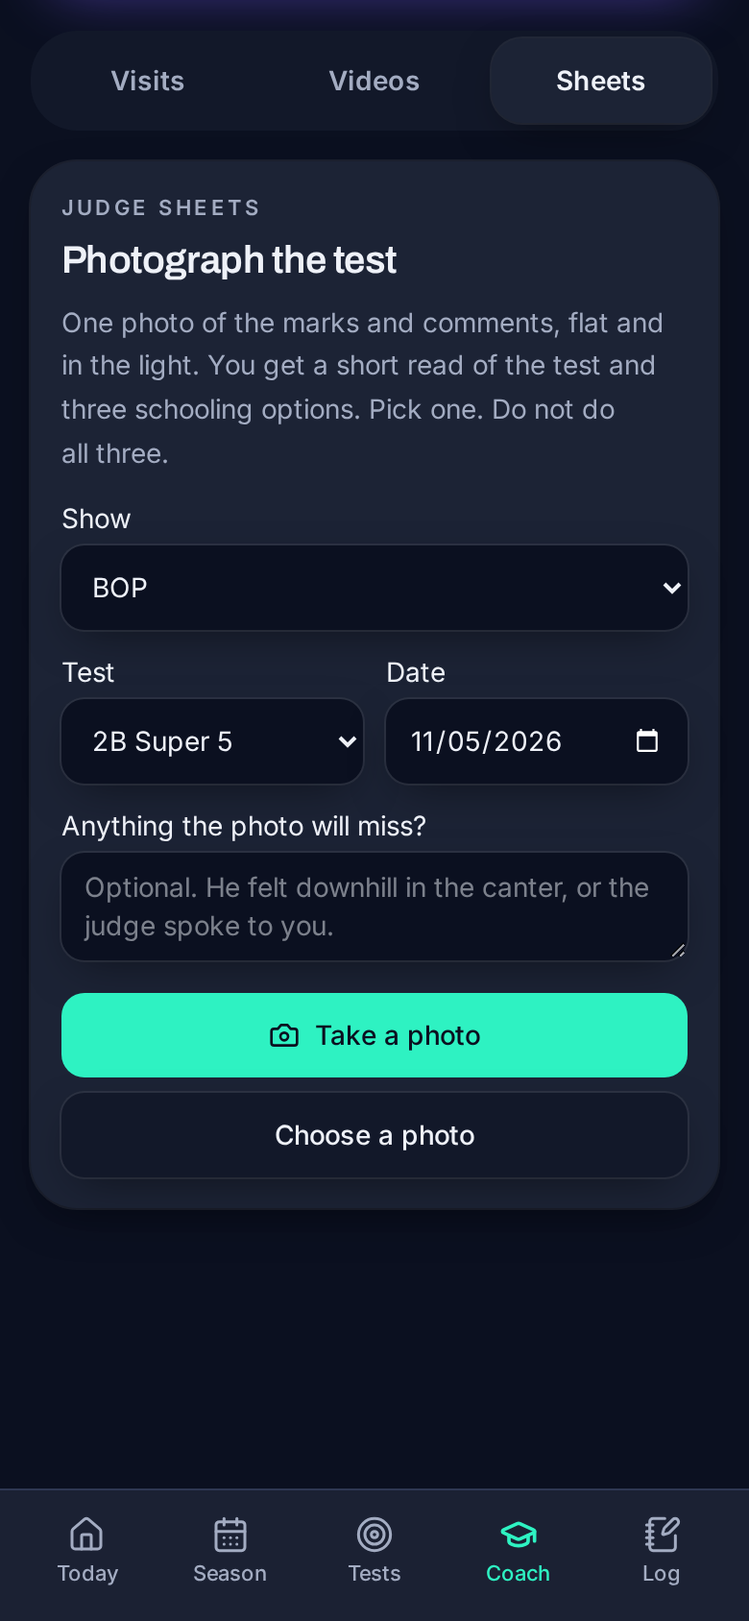
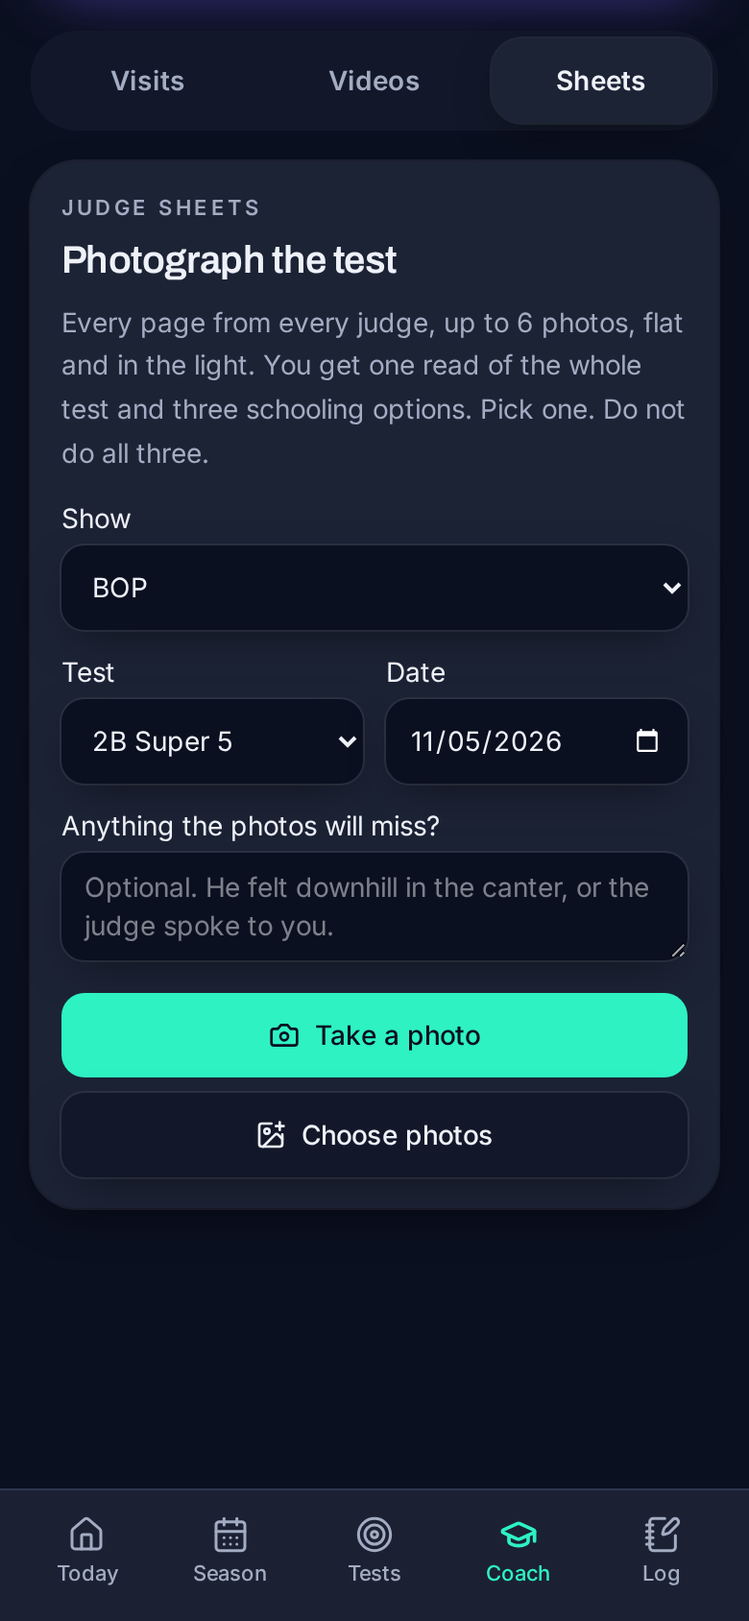
Rebrand app as XSalute by Virtual Dressage NZ

diff --git a/index.html b/index.html
@@ -1,17 +1,19 @@
 <!doctype html><html lang="en-NZ"><head><meta charset="utf-8"><meta name="viewport" content="width=device-width,initial-scale=1">
-<title>Virtual Dressage NZ — Train, plan &amp; track your dressage journey</title>
-<meta name="description" content="Virtual Dressage NZ: a New Zealand-built dressage training app for riders and coaches. Plan your season, learn your tests, log results and get coach feedback. Free during beta.">
+<title>XSalute by Virtual Dressage NZ — Train, plan &amp; track your dressage journey</title>
+<meta name="description" content="XSalute by Virtual Dressage NZ: a New Zealand-built dressage training app for riders and coaches. Plan your season, learn your tests, log results and get coach feedback. Free during beta.">
 <link rel="preconnect" href="https://fonts.googleapis.com"><link href="https://fonts.googleapis.com/css2?family=Archivo:wght@600;800&family=Inter:wght@400;600;700&display=swap" rel="stylesheet">
-<link rel="icon" href="favicon.ico" sizes="any"><link rel="icon" type="image/svg+xml" href="images/brand/logo-icon.svg"><link rel="apple-touch-icon" href="images/brand/logo-icon-192.png"><meta name="theme-color" content="#0B1020"><link rel="stylesheet" href="css/style.css"></head><body>
-<nav><div class="wrap"><a class="logo" href="#"><img src="images/brand/logo-icon.svg" alt=""><span class="lt">Virtual Dressage <span>NZ</span></span></a><ul>
-<li><a href="#cohort">Beta</a></li><li><a href="#features">Features</a></li><li><a href="#judge-sheets">Judge sheets</a></li><li><a href="#how">How it works</a></li><li><a href="#mindset">Mindset</a></li><li><a href="#nutrition">Nutrition</a></li><li><a href="#surfaces">Surfaces</a></li><li><a href="#pricing">Pricing</a></li><li><a href="#coaches">Coaches &amp; clubs</a></li><li><a href="#origin">Our story</a></li><li><a href="#faq">FAQ</a></li><li><a class="navcta" href="mailto:virtualdressagenz@gmail.com?subject=Join%20the%20Virtual%20Dressage%20NZ%20beta">Join the beta</a></li></ul></div></nav>
+<link rel="icon" href="favicon.ico" sizes="any"><link rel="icon" type="image/svg+xml" href="images/brand/logo-icon.svg"><link rel="apple-touch-icon" href="images/brand/logo-icon-192.png"><meta name="theme-color" content="#0B1020"><meta name="application-name" content="XSalute"><meta property="og:type" content="website"><meta property="og:site_name" content="Virtual Dressage NZ"><meta property="og:title" content="XSalute by Virtual Dressage NZ — the dressage training app"><meta property="og:description" content="Plan · Train · Compete · Reflect. Season plans, test learning, coach sessions, results and judge-sheet reading for riders and coaches. Made in New Zealand. Free during beta."><meta property="og:url" content="https://jurastablesnz-lab.github.io/virtual-dressage-nz/"><meta property="og:image" content="https://jurastablesnz-lab.github.io/virtual-dressage-nz/preview.png"><meta name="twitter:card" content="summary_large_image"><link rel="stylesheet" href="css/style.css"></head><body>
+<nav><div class="wrap"><a class="logo" href="#" aria-label="Virtual Dressage NZ — home of XSalute"><img src="images/brand/logo-icon.svg" alt=""><span class="lt">Virtual Dressage <span>NZ</span></span><span class="prod" title="XSalute — our dressage training app"><b>X</b>Salute</span></a><ul>
+<li><a href="#cohort">Beta</a></li><li><a href="#features">Features</a></li><li><a href="#judge-sheets">Judge sheets</a></li><li><a href="#how">How it works</a></li><li><a href="#mindset">Mindset</a></li><li><a href="#nutrition">Nutrition</a></li><li><a href="#surfaces">Surfaces</a></li><li><a href="#pricing">Pricing</a></li><li><a href="#coaches">Coaches &amp; clubs</a></li><li><a href="#origin">Our story</a></li><li><a href="#faq">FAQ</a></li><li><a class="navcta" href="mailto:virtualdressagenz@gmail.com?subject=Join%20the%20XSalute%20beta">Join the beta</a></li></ul></div></nav>
 <header class="hero"><div class="wrap"><div>
-<img class="hero-mark" src="images/brand/logo-icon.svg" alt="Virtual Dressage NZ horse and rider mark">
+<img class="hero-mark" src="images/brand/logo-icon.svg" alt="XSalute horse and rider mark">
+<img class="hero-word" src="images/brand/xsalute-wordmark.svg" alt="XSalute">
 <div class="tagline"><span>PLAN</span><span>TRAIN</span><span>COMPETE</span><span>REFLECT</span></div>
-<div class="eyebrow">The dressage training app · Made in New Zealand</div>
+<div class="eyebrow">The dressage training app by Virtual Dressage NZ · Made in New Zealand</div>
 <h1>Train, plan &amp; track your <em>dressage journey</em>.</h1>
-<p>Your season plan, test learning, coach sessions, results and judge feedback in one calm app, from your first Novice test to Nationals and beyond.</p>
-<div class="ctas"><a class="btn" href="mailto:virtualdressagenz@gmail.com?subject=Join%20the%20Virtual%20Dressage%20NZ%20beta">Join the beta</a><a class="btn ghost" href="#features">See the app</a></div>
+<p>XSalute puts your season plan, test learning, coach sessions, results and judge feedback in one calm app, from your first Novice test to Nationals and beyond.</p>
+<p class="small">Named for the halt and salute at X that starts and finishes every dressage test.</p>
+<div class="ctas"><a class="btn" href="mailto:virtualdressagenz@gmail.com?subject=Join%20the%20XSalute%20beta">Join the beta</a><a class="btn ghost" href="#features">See XSalute</a></div>
 <p class="small">Free during beta · Runs in your phone or computer browser · Freestyle music player built in</p></div>
 <div class="phone"><img src="images/01-today.png" alt="Today dashboard screen"></div></div></header>
 
@@ -19,28 +21,28 @@
 <div class="eyebrow">Founding beta cohort</div><h2>Now forming our founding beta cohort</h2>
 <p style="font-size:1.15rem;opacity:.9">Riders from Novice to Grand Prix.</p>
 <div class="chips"><span>Novice</span><span>Elementary</span><span>Medium</span><span>Advanced</span><span>FEI / Grand Prix</span></div>
-<p class="muted" style="max-width:40em;margin:18px auto">The app adapts to each rider’s level and tests, from your season plan to the test library. FEI tests are coming.</p>
+<p class="muted" style="max-width:40em;margin:18px auto">XSalute adapts to each rider’s level and tests, from your season plan to the test library. FEI tests are coming.</p>
 <p class="gold">Limited founding places</p>
 <a class="btn" href="mailto:virtualdressagenz@gmail.com?subject=Founding%20beta%20application&amp;body=Name%3A%0AHorse%20(name%2C%20age%2C%20breed)%3A%0ALevel%3A%0ATests%20ridden%3A%0ATarget%20shows%3A%0ACoach%3A%0A">Apply for the founding beta</a>
 <p class="small">Tell us about your horse, level, tests ridden, target shows and coach.</p>
 </div></section>
 <section id="how"><div class="wrap"><div class="eyebrow">How it works</div><h2>Plan. Train. Compete. Reflect.</h2>
 <div class="grid3" style="margin-top:32px">
-<div class="card"><div class="step">01</div><h3>Plan</h3><p class="muted">Add your shows and goals. Virtual Dressage NZ builds your season in phases (Foundation, Consolidate, Strength, Championship) and a weekly plan.</p></div>
+<div class="card"><div class="step">01</div><h3>Plan</h3><p class="muted">Add your shows and goals. XSalute builds your season in phases (Foundation, Consolidate, Strength, Championship) and a weekly plan.</p></div>
 <div class="card"><div class="step">02</div><h3>Train</h3><p class="muted">Open Today for your session. Learn each test movement by movement on the arena diagram, with what the judge wants and schooling tips.</p></div>
 <div class="card"><div class="step">03</div><h3>Compete &amp; reflect</h3><p class="muted">Log results, photograph judge sheets, upload test videos for your coach and watch your scores and league points add up.</p></div>
 </div></div></section>
 <div class="banner" style="background-image:url(images/gp-vonbredow.jpg)"><div class="wrap"><p class="bline">Harmony is trained, one stride at a time.</p><p class="bsub">Every Grand Prix test began with a single schooling session.</p></div></div>
 
-<section id="features" class="alt"><div class="wrap"><div class="eyebrow">Features</div><h2>Everything for your season, in one place.</h2>
-<div class="feature"><div class="phone"><img src="images/01-today.png" alt="Today screen"></div><div><h3>Today — your daily dashboard</h3><p class="muted">Open the app and know exactly what to do.</p><ul><li>Key stats: best score, next show, entry deadlines</li><li>Freestyle music player, one tap away</li><li>Weekly plan checklist and today’s session</li><li>Super 5 league points at a glance</li></ul></div></div>
-<div class="feature"><div class="phone"><img src="images/01-today.png" alt="Freestyle music player pinned at the top of the Today screen, playing Samson's Level 2 Freestyle"></div><div><span class="tag live">Live in beta</span><h3>Your freestyle music, one tap away</h3><p class="muted">Store your musical freestyle (MFS) music in the app and play it with one tap while you ride. No fumbling with phones, playlists or speakers at the arena gate.</p><ul><li>Upload your freestyle music once and it’s always with you</li><li>Player pinned at the top of every screen</li><li>Play, pause and restart in one tap, mid-schooling session</li><li>Already in use for Samson’s Level 2 Freestyle</li></ul></div></div>
+<section id="features" class="alt"><div class="wrap"><div class="eyebrow">Features</div><h2>Everything for your season, in one place: XSalute.</h2>
+<div class="feature"><div class="phone"><img src="images/01-today.png" alt="Today screen"></div><div><h3>Today — your daily dashboard</h3><p class="muted">Open XSalute and know exactly what to do.</p><ul><li>Key stats: best score, next show, entry deadlines</li><li>Freestyle music player, one tap away</li><li>Weekly plan checklist and today’s session</li><li>Super 5 league points at a glance</li></ul></div></div>
+<div class="feature"><div class="phone"><img src="images/01-today.png" alt="Freestyle music player pinned at the top of the Today screen, playing Samson's Level 2 Freestyle"></div><div><span class="tag live">Live in beta</span><h3>Your freestyle music, one tap away</h3><p class="muted">Store your musical freestyle (MFS) music in XSalute and play it with one tap while you ride. No fumbling with phones, playlists or speakers at the arena gate.</p><ul><li>Upload your freestyle music once and it’s always with you</li><li>Player pinned at the top of every screen</li><li>Play, pause and restart in one tap, mid-schooling session</li><li>Already in use for Samson’s Level 2 Freestyle</li></ul></div></div>
 <div class="feature"><div class="phone"><img src="images/02-season.png" alt="Season screen"></div><div><h3>Season — plan the campaign</h3><p class="muted">See the whole road to the championships.</p><ul><li>Super 5 show countdown to Nationals</li><li>Training phases: Foundation, Consolidate, Strength, Championship</li><li>Know which phase you’re in and what it’s for</li></ul></div></div>
 <div class="feature"><div class="phone"><img src="images/03-tests.png" alt="Tests screen"></div><div><h3>Tests — learn every movement</h3><p class="muted">An interactive arena diagram steps through each test.</p><ul><li>Movement-by-movement arena path</li><li>What the judge is looking for</li><li>Coefficients flagged so you know where marks count</li><li>Schooling tips for each movement</li></ul></div></div>
 <div class="feature"><div class="phone"><img src="images/04-coach.png" alt="Coach screen"></div><div><h3>Coach — make every lesson count</h3><p class="muted">Plan coach visits so nothing is wasted.</p><ul><li>Warm-up and exercises</li><li>What to film</li><li>Homework to carry into the week</li></ul></div></div>
 <div class="feature"><div class="phone"><img src="images/05-log.png" alt="Log screen"></div><div><h3>Log — results &amp; logistics</h3><p class="muted">Track your record and never forget the hoof oil.</p><ul><li>Results history and averages</li><li>League points tally</li><li>Show packing checklist</li></ul></div></div>
 <div class="feature"><div class="phone"><img src="images/06-coach-videos.png" alt="Coach videos screen"></div><div><h3>Video review</h3><p class="muted">Upload competition videos for your coach to review remotely — feedback between visits, wherever you both are.</p></div></div>
-<div class="feature" id="judge-sheets"><div class="phone"><img src="images/08-sheets-multi.png" alt="Judge sheet reading screen showing several sheet photos summarised by judge"></div><div><span class="tag live">New in beta</span><h3>AI judge sheet reading</h3><p class="muted">Photograph your judge sheets and let the app read them for you. Turn handwritten marks and remarks into a clear plan for your next ride.</p><ul><li>Photograph every page from up to three judges — up to 6 photos per test</li><li>AI reads the handwritten marks and remarks</li><li>A plain-English summary, grouped by judge</li><li>Common themes the judges agree on — and where they differ</li><li>Picks what to work on next</li><li>Copy a summary to send to your coach</li></ul></div></div>
+<div class="feature" id="judge-sheets"><div class="phone"><img src="images/08-sheets-multi.png" alt="Judge sheet reading screen showing several sheet photos summarised by judge"></div><div><span class="tag live">New in beta</span><h3>AI judge sheet reading</h3><p class="muted">Photograph your judge sheets and let XSalute read them for you. Turn handwritten marks and remarks into a clear plan for your next ride.</p><ul><li>Photograph every page from up to three judges — up to 6 photos per test</li><li>AI reads the handwritten marks and remarks</li><li>A plain-English summary, grouped by judge</li><li>Common themes the judges agree on — and where they differ</li><li>Picks what to work on next</li><li>Copy a summary to send to your coach</li></ul></div></div>
 </div></section>
 <section id="mindset" class="mindset"><div class="wrap grid2"><div class="mimg"><img src="images/gp-wandres.jpg" alt="Calm, focused Grand Prix dressage"></div><div>
 <span class="tag soon">Coming soon</span><div class="eyebrow">Mindset</div><h2>Ride with a calm, focused mind.</h2>
@@ -70,7 +72,7 @@
 <div class="grid3" style="margin-top:28px">
 <div class="card"><h3>Why it matters</h3><ul class="clean"><li><b>Welfare &amp; soundness:</b> footing affects the load on your horse’s legs.</li><li><b>Performance:</b> horses move with more confidence on secure, even ground.</li><li><b>Consistency:</b> riders deserve comparable footing in the warm-up and the arena.</li></ul></div>
 <div class="card"><h3>What to observe</h3><ul class="clean"><li>Depth</li><li>Firmness and give</li><li>Consistency across the arena</li><li>Grip or slip</li><li>Drainage and wet patches</li><li>Dust</li><li>Edges and corners</li><li>Warm-up arena vs competition arena</li></ul></div>
-<div class="card"><span class="tag soon">Coming soon</span><h3>In the app</h3><ul class="clean"><li>Log and rate each venue’s surface, with photos</li><li>Attach surface notes to your test score</li><li>See community reports per venue over time</li><li>Share feedback constructively with organisers</li></ul></div>
+<div class="card"><span class="tag soon">Coming soon</span><h3>In XSalute</h3><ul class="clean"><li>Log and rate each venue’s surface, with photos</li><li>Attach surface notes to your test score</li><li>See community reports per venue over time</li><li>Share feedback constructively with organisers</li></ul></div>
 </div>
 <p class="note">Want to learn more? Read the <a href="https://inside.fei.org/fei/about-fei/fei-library/equine-surfaces-white-paper">FEI Equine Surfaces White Paper</a> and the <a href="https://knowledgebase.fei.org/index.php?action=artikel&amp;artlang=en&amp;cat=11&amp;id=91">FEI guidance on footing</a>. General information only; links are to independent sources.</p>
 </div></section>
@@ -78,9 +80,9 @@
 
 <section id="samson"><div class="wrap grid2"><div>
 <div class="eyebrow">Case study #1 · First founding rider</div><h2>Samson &amp; Susan.</h2>
-<p>Virtual Dressage NZ is built by <strong>Susan Philp</strong>, a rider from the Palmerston North area, and is used to train her horse <strong>Samson</strong>, a 14-year-old black stationbred by Tiraumea Flint competing at Level 2 Novice.</p>
+<p>Virtual Dressage NZ, the company behind XSalute, is run by <strong>Susan Philp</strong>, a rider from the Palmerston North area, and XSalute is used to train her horse <strong>Samson</strong>, a 14-year-old black stationbred by Tiraumea Flint competing at Level 2 Novice.</p>
 <p>Every screen has been shaped by real schooling sessions, coach visits and show days, so it fits how amateur riders actually train. Samson is our first founding-cohort horse; the cohort is now opening to riders at every level.</p>
-<div class="stat"><span>66.2%</span> Samson’s best Level 2 score, tracked in the app</div>
+<div class="stat"><span>66.2%</span> Samson’s best Level 2 score, tracked in XSalute</div>
 </div><div class="phone"><img src="images/05-log.png" alt="Samson's results log"></div></div></section>
 <section class="gallery"><div class="strip">
 <figure><img src="images/gp-gal.jpg" alt="Grand Prix extended trot"><figcaption>Extended trot</figcaption></figure>
@@ -98,7 +100,7 @@
 <div class="plan"><span class="tag">Beta – free during beta</span><h3>Coach</h3><div class="price">Coming soon</div><ul><li>Multiple riders in one place</li><li>Review rider videos</li><li>Plan visits &amp; set homework</li></ul></div>
 <div class="plan"><span class="tag">Beta – free during beta</span><h3>Club</h3><div class="price">Coming soon</div><ul><li>Licences for clubs &amp; pony clubs</li><li>Support members &amp; instructors</li></ul></div>
 </div><p class="note">*Indicative launch pricing, subject to change. No payment is taken during beta.</p>
-<div style="text-align:center;margin-top:24px"><a class="btn" href="mailto:virtualdressagenz@gmail.com?subject=Join%20the%20Virtual%20Dressage%20NZ%20beta">Join the beta</a></div></div></section>
+<div style="text-align:center;margin-top:24px"><a class="btn" href="mailto:virtualdressagenz@gmail.com?subject=Join%20the%20XSalute%20beta">Join the beta</a></div></div></section>
 
 <section id="coaches" class="dark photo" style="--bg:url(../images/gp-watson-greaves.jpg)"><div class="wrap"><div class="eyebrow">For coaches &amp; clubs</div><h2>Support your riders between lessons.</h2>
 <div class="grid3" style="margin-top:32px">
@@ -107,12 +109,12 @@
 <div class="card"><h3>Shows &amp; organisers</h3><p class="muted">Interested in working with us? We’d love to talk about calendars, tests and results.</p></div>
 </div><div style="margin-top:28px"><a class="btn" href="mailto:virtualdressagenz@gmail.com?subject=Coach%20%2F%20club%20enquiry">Talk to us</a></div></div></section>
 
-<section id="origin" class="origin"><div class="wrap"><div class="eyebrow">Our story</div><h2>From lockdown arenas to a rider’s app.</h2>
+<section id="origin" class="origin"><div class="wrap"><div class="eyebrow">Our story</div><h2>From lockdown arenas to XSalute.</h2>
 <p class="muted" style="max-width:46em">Virtual Dressage NZ didn’t start as an app. It started as a way to keep New Zealand riders riding, together, when shows stopped.</p>
 <div class="chapters">
 <div class="chapter"><div class="ch-num">Chapter I</div><h3>Born in lockdown</h3><p>When Covid lockdowns stopped competitions across New Zealand, riders had nowhere to ride a test. Virtual Dressage NZ ran virtual dressage competitions: riders filmed their tests at home and they were judged online.</p></div>
 <div class="chapter"><div class="ch-num">Chapter II</div><h3>Riders return</h3><p>When lockdowns lifted and riders went back to shows, the idea grew. Virtual Dressage NZ became a way to capture, share and track progress between competitions.</p></div>
-<div class="chapter"><div class="ch-num">Chapter III</div><h3>The app</h3><p>That evolved into a training, planning and tracking app, now in beta and tested on Samson.</p></div>
+<div class="chapter"><div class="ch-num">Chapter III</div><h3>The app</h3><p>That evolved into XSalute, a training, planning and tracking app, now in beta and tested on Samson.</p></div>
 </div></div></section>
 <div class="banner" style="background-image:url(images/gp-kittel.jpg)"><div class="wrap"><p class="bline">From Novice to Nationals, and beyond.</p><p class="bsub">Your journey, beautifully organised.</p></div></div>
 
@@ -121,21 +123,22 @@
 <details><summary>What levels is it for?</summary><p>It’s built around NZ competition riders, from Novice upwards, and is adapts to each rider’s level and tests. It’s currently used at Level 2, with FEI tests coming.</p></details>
 <details><summary>Do I need a coach?</summary><p>No. It works on your own, and if you have a coach you can plan visits and share videos with them.</p></details>
 <details><summary>What devices does it work on?</summary><p>It runs in your phone or computer browser and is designed mobile-first for use at the yard and shows.</p></details>
-<details><summary>Can I play my freestyle music from the app?</summary><p>Yes. You can store your musical freestyle (MFS) music in the app and play it with one tap while you ride. The music player is pinned at the top of every screen, so it’s always within reach in the arena. It’s already live in the beta and used for Samson’s Level 2 Freestyle.</p></details>
+<details><summary>Can I play my freestyle music from XSalute?</summary><p>Yes. You can store your musical freestyle (MFS) music in the app and play it with one tap while you ride. The music player is pinned at the top of every screen, so it’s always within reach in the arena. It’s already live in the beta and used for Samson’s Level 2 Freestyle.</p></details>
 <details><summary>What is the Mindset feature?</summary><p>A coming-soon set of sport psychology tools: pre-ride routines, guided test visualisation, breathing for nerves, goal setting, a confidence journal alongside your scores and post-show reflection. It’s designed to be developed with sport psychology professionals and will be part of Rider Pro.</p></details>
 <details><summary>What is the Nutrition feature?</summary><p>A coming-soon part of Rider Pro: feeding plans matched to training load and season phase, supplement notes to discuss with your vet or equine nutritionist, a feed and condition log alongside performance, and rider nutrition and hydration for training and show days. It’s general guidance only, not veterinary or medical advice, and it won’t recommend specific products or doses.</p></details>
-<details><summary>Why does the app cover arena surfaces?</summary><p>Footing matters for horse welfare, performance and consistency. We want to help riders learn what to look for and, when in-app reporting arrives, log and rate venue surfaces and share feedback constructively with organisers. Community surface reports will be free on the Rider plan.</p></details>
+<details><summary>Why does XSalute cover arena surfaces?</summary><p>Footing matters for horse welfare, performance and consistency. We want to help riders learn what to look for and, when in-app reporting arrives, log and rate venue surfaces and share feedback constructively with organisers. Community surface reports will be free on the Rider plan.</p></details>
+<details><summary>Why is it called XSalute?</summary><p>Every dressage test starts and finishes with a halt and salute at X, the centre of the arena. XSalute is the app; Virtual Dressage NZ is the New Zealand company that makes it.</p></details>
 <details><summary>How do I join the beta?</summary><p>Apply for the founding beta cohort by emailing <a href="mailto:virtualdressagenz@gmail.com?subject=Founding%20beta%20application&amp;body=Name%3A%0AHorse%20(name%2C%20age%2C%20breed)%3A%0ALevel%3A%0ATests%20ridden%3A%0ATarget%20shows%3A%0ACoach%3A%0A">virtualdressagenz@gmail.com</a> with your horse, level, tests ridden, target shows and coach. Places are limited.</p></details>
 </div></div></section>
 
 <section id="contact"><div class="wrap grid2"><div>
 <div class="eyebrow">Join the beta</div><h2>Ride with us.</h2>
-<p>Rider, coach or club? Join the beta and help shape the app.</p>
+<p>Rider, coach or club? Join the beta and help shape XSalute.</p>
 <p>Email: <a href="mailto:virtualdressagenz@gmail.com">virtualdressagenz@gmail.com</a></p></div>
 <form id="f"><input id="n" placeholder="Your name" required><input id="e" type="email" placeholder="Your email" required>
 <select id="r"><option>Rider</option><option>Coach</option><option>Club / Pony Club</option><option>Event organiser</option><option>Other</option></select>
 <textarea id="m" rows="4" placeholder="Tell us about you and your horse"></textarea><button class="btn" type="submit">Join the beta</button></form></div></section>
-<footer><div class="wrap fgrid"><img class="flogo" src="images/brand/logo-horizontal-dark-outlined.svg" alt="Virtual Dressage NZ — Plan · Train · Compete · Reflect"></div><div class="fline">© 2026 Virtual Dressage NZ · New Zealand · <a href="mailto:virtualdressagenz@gmail.com">virtualdressagenz@gmail.com</a></div><div class="credits"><strong>Photo credits</strong> (Wikimedia Commons; photos are illustrative and do not depict Virtual Dressage NZ users; no endorsement implied):
+<footer><div class="wrap fgrid"><img class="fword" src="images/brand/xsalute-horizontal-dark.svg" alt="XSalute by Virtual Dressage NZ — Plan · Train · Compete · Reflect"><img class="flogo" src="images/brand/logo-horizontal-dark-outlined.svg" alt="Virtual Dressage NZ — Plan · Train · Compete · Reflect"></div><div class="fline">© 2026 Virtual Dressage NZ · Makers of XSalute · Made in New Zealand · <a href="mailto:virtualdressagenz@gmail.com">virtualdressagenz@gmail.com</a></div><div class="credits"><strong>Photo credits</strong> (Wikimedia Commons; photos are illustrative and do not depict Virtual Dressage NZ users; no endorsement implied):
 <a href="https://commons.wikimedia.org/wiki/File:2018FEI-WORLD-CUP-DRESSAGE-Edward-Gal.jpg">Edward Gal</a>,
 <a href="https://commons.wikimedia.org/wiki/File:2018FEI-WORLD-CUP-DRESSAGE-Jessica-von-Bredow.jpg">Jessica von Bredow</a>,
 <a href="https://commons.wikimedia.org/wiki/File:2018FEI-WORLD-CUP-DRESSAGE-Patrik-Kittel.jpg">Patrik Kittel</a>,

diff --git a/css/style.css b/css/style.css
@@ -125,3 +125,8 @@ footer{background:var(--mid)}.ftag{display:none}
 .banner::before{background:radial-gradient(ellipse 60% 55% at 50% 50%,rgba(11,16,32,.7),transparent 80%),linear-gradient(135deg,rgba(11,16,32,.78),rgba(124,92,255,.32) 60%,rgba(46,242,194,.14)),linear-gradient(var(--mid),transparent 18%,transparent 75%,var(--mid))}
 .bline{text-shadow:0 4px 30px rgba(0,0,0,.6)}
 .tag.live{background:rgba(46,242,194,.12);color:var(--mint);border-color:rgba(46,242,194,.5);text-transform:uppercase;letter-spacing:.14em}
+
+nav .logo .prod{margin-left:4px;padding:3px 9px;border-radius:999px;border:1px solid rgba(46,242,194,.35);font-size:.82rem;letter-spacing:-.01em;color:#fff}nav .logo .prod b{color:var(--mint)}
+.hero-word{display:block;height:56px;width:auto;margin:0 0 14px}
+.fword{width:min(520px,92%);border-radius:14px}
+@media(max-width:600px){.hero-word{height:42px}nav .logo .prod{font-size:.72rem;padding:2px 7px}}
